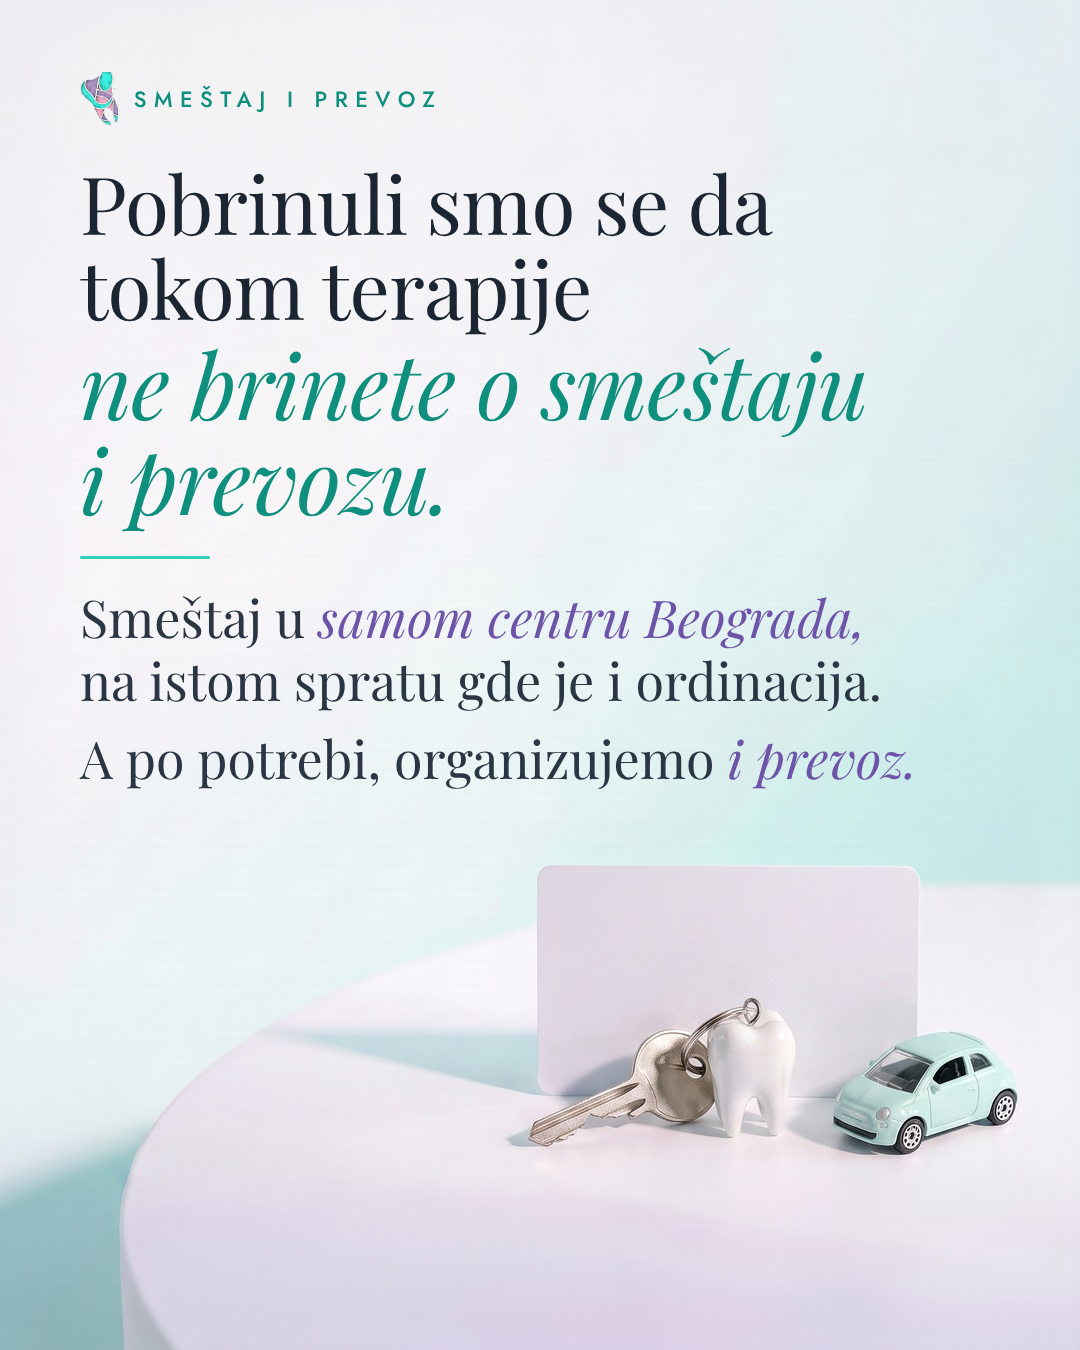
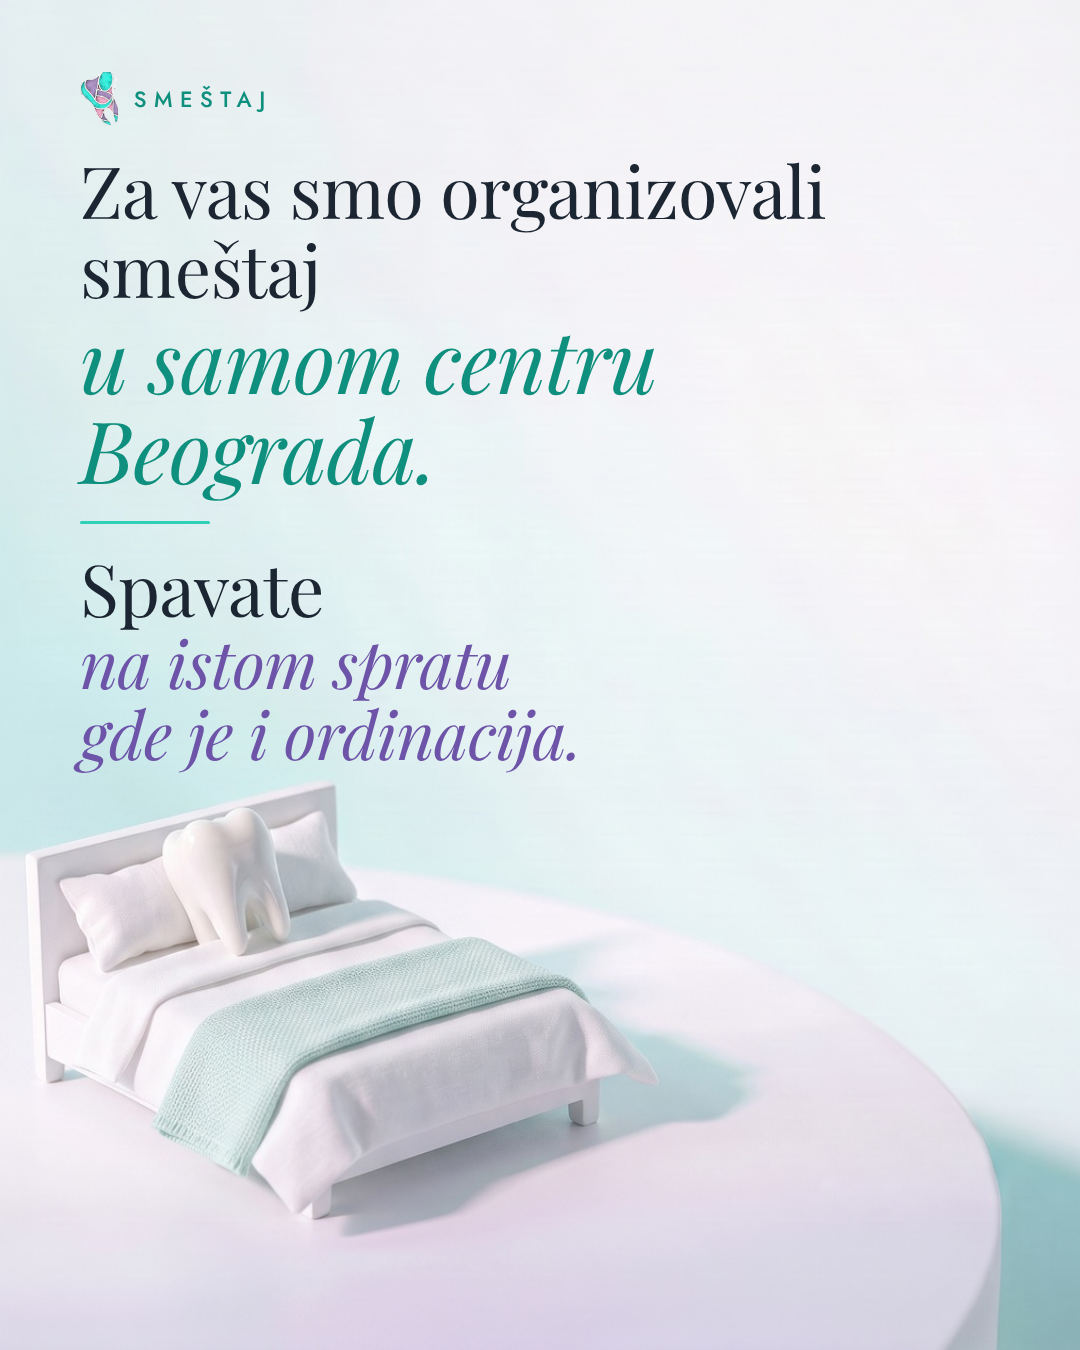
Olujić smeštaj foto: slide 2 with bed on the left and new copy
Claude-Session: https://claude.ai/code/session_015Zt4Xxmto9TPrfhFawYg1y

diff --git a/olujic/karusel_smestaj_foto/izvor/s2_krevet.html b/olujic/karusel_smestaj_foto/izvor/s2_krevet.html
@@ -1,0 +1,26 @@
+<!doctype html><html lang="sr"><head><meta charset="utf-8">
+<link rel="stylesheet" href="fonts.css"><link rel="stylesheet" href="pf_fonts.css">
+<style>
+:root{--tealD:#0F8F7E;--teal:#2FCFB8;--lilacD:#6E54A8;--ink:#1C2633;--body:#2B3644}
+*{margin:0;padding:0;box-sizing:border-box}body{background:#888}
+.s{width:1080px;height:1350px;position:relative;overflow:hidden;background:url(foto_krevet.jpg) 30% 100%/1150px auto no-repeat}
+.s::before{content:"";position:absolute;inset:0;background:linear-gradient(180deg,rgba(255,255,255,.35),rgba(255,255,255,0) 55%)}
+.brand{position:absolute;left:80px;top:72px;display:flex;align-items:center;gap:16px;font-family:Jost;font-weight:500;font-size:22px;letter-spacing:.34em;text-transform:uppercase;color:var(--tealD)}
+.brand img{height:54px}
+.blk{position:absolute;left:80px;top:170px;width:920px}
+.u{font-family:PF;font-weight:400;color:var(--ink);line-height:1.04;letter-spacing:-.01em}
+.i{font-family:PF;font-weight:400;font-style:italic;color:var(--tealD);line-height:1.04;letter-spacing:-.01em}
+.r{width:130px;height:2.5px;background:var(--teal);margin:34px 0 30px;border-radius:2px}
+.s2{font-family:PF;font-weight:400;color:var(--body);line-height:1.14}
+.s2 i{color:var(--lilacD)}
+</style></head><body>
+<div class="s" id="s1">
+  <div class="brand"><img src="logo_zub.png">Smeštaj</div>
+  <div class="blk" style="top:150px">
+    <div class="u" style="font-size:72px;line-height:1.1">Za vas smo organizovali<br>smeštaj</div>
+    <div class="i" style="font-size:86px;line-height:1.04;margin-top:6px">u samom centru<br>Beograda.</div>
+    <div class="r" style="margin-top:28px;margin-bottom:24px"></div>
+    <div class="u" style="font-size:72px;line-height:1.1">Spavate</div>
+    <div class="i" style="font-size:66px;line-height:1.08;color:var(--lilacD)">na istom spratu<br>gde je i ordinacija.</div>
+  </div>
+</div></body></html>
